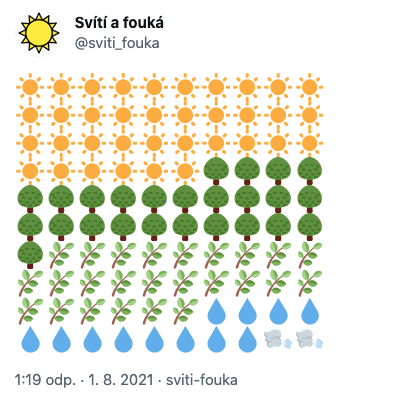
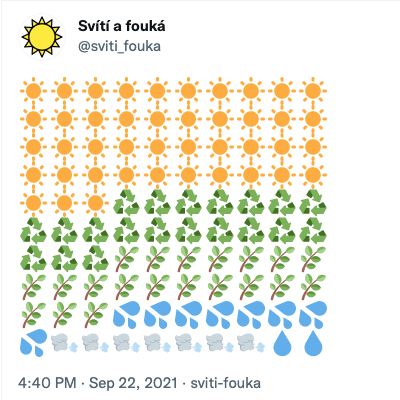
Change emojis for biomass and other renewables

diff --git a/svitifouka_test.go b/svitifouka_test.go
@@ -25,7 +25,7 @@ var wantedPercentage = map[string]int{
 	"B19": 1,
 }
 
-var wantedTweet = "☀☀☀☀☀☀☀☀☀☀\n☀☀☀☀☀☀☀☀☀☀\n☀☀☀☀☀☀☀☀☀☀\n☀☀☀☀☀☀☀☀☀☀\n☀☀☀☀☀☀☀☀☀☀\n☀☀☀🌿🌿🌿🌿🌿🌿🌿\n🌿🌿🌿🌿🌿🌿🌿🌿🌿🌳\n🌳🌳🌳🌳🌳🌳🌳🌳🌳🌳\n🌳🌳🌳🌳💧💧💧💧💧💧\n💧💧💦💦💦💦💦💦💦🌬\n"
+var wantedTweet = "☀☀☀☀☀☀☀☀☀☀\n☀☀☀☀☀☀☀☀☀☀\n☀☀☀☀☀☀☀☀☀☀\n☀☀☀☀☀☀☀☀☀☀\n☀☀☀☀☀☀☀☀☀☀\n☀☀☀♻♻♻♻♻♻♻\n♻♻♻♻♻♻♻♻♻🌿\n🌿🌿🌿🌿🌿🌿🌿🌿🌿🌿\n🌿🌿🌿🌿💧💧💧💧💧💧\n💧💧💦💦💦💦💦💦💦🌬\n"
 
 func TestCalculatePercentages(t *testing.T) {
 	got := calculatePercentages(sampleData, technologies)

diff --git a/svitifouka.go b/svitifouka.go
@@ -30,20 +30,20 @@ const url = "https://transparency.entsoe.eu/api?"
 var technologies = []string{"B01", "B09", "B11", "B12", "B15", "B16", "B19"}
 
 /* Runes representing emoji characters
-B01, 🌳 , Biomass
+B01, 🌿, Biomass
 B09, 🌍, Geothermal
-B11, 💦", Hydro Run-of-river and poundage
+B11, 💦, Hydro Run-of-river and poundage
 B12, 💧, Hydro Water Reservoir
-B15, 🌿", Other renewable
+B15, ♻, Other renewable
 B16, ☀, Solar
 B19, 🌬, Wind Onshore
 */
 var runeMap = map[string][]rune{
-	"B01": {127795},
+	"B01": {127807},
 	"B09": {127757},
 	"B11": {128166},
 	"B12": {128167},
-	"B15": {127807},
+	"B15": {9851, 65039},
 	"B16": {9728, 65039},
 	"B19": {127788, 65039},
 }

diff --git a/README.md b/README.md
@@ -4,13 +4,13 @@ Twitter bot [@sviti-fouka](https://twitter.com/sviti_fouka) tvítující energet
 
 ![Snímek obrazovky statusu](status.png)
 
-- 🌳 biomasa
+- 🌿 biomasa
 - 🌍 geotermální energie
-- 💦 voda (průtok)
-- 💧 voda (rezervoár)
-- 🌿 ostatní (převážně bioplyn)
+- ♻ ostatní obnovitelné zdroje
 - ☀ slunce
 - 🌬 vítr
+- 💦 voda (průtok)
+- 💧 voda (rezervoár)
 
 Nezahrnuje obnovitelnou složku komunálních odpadů.
 
